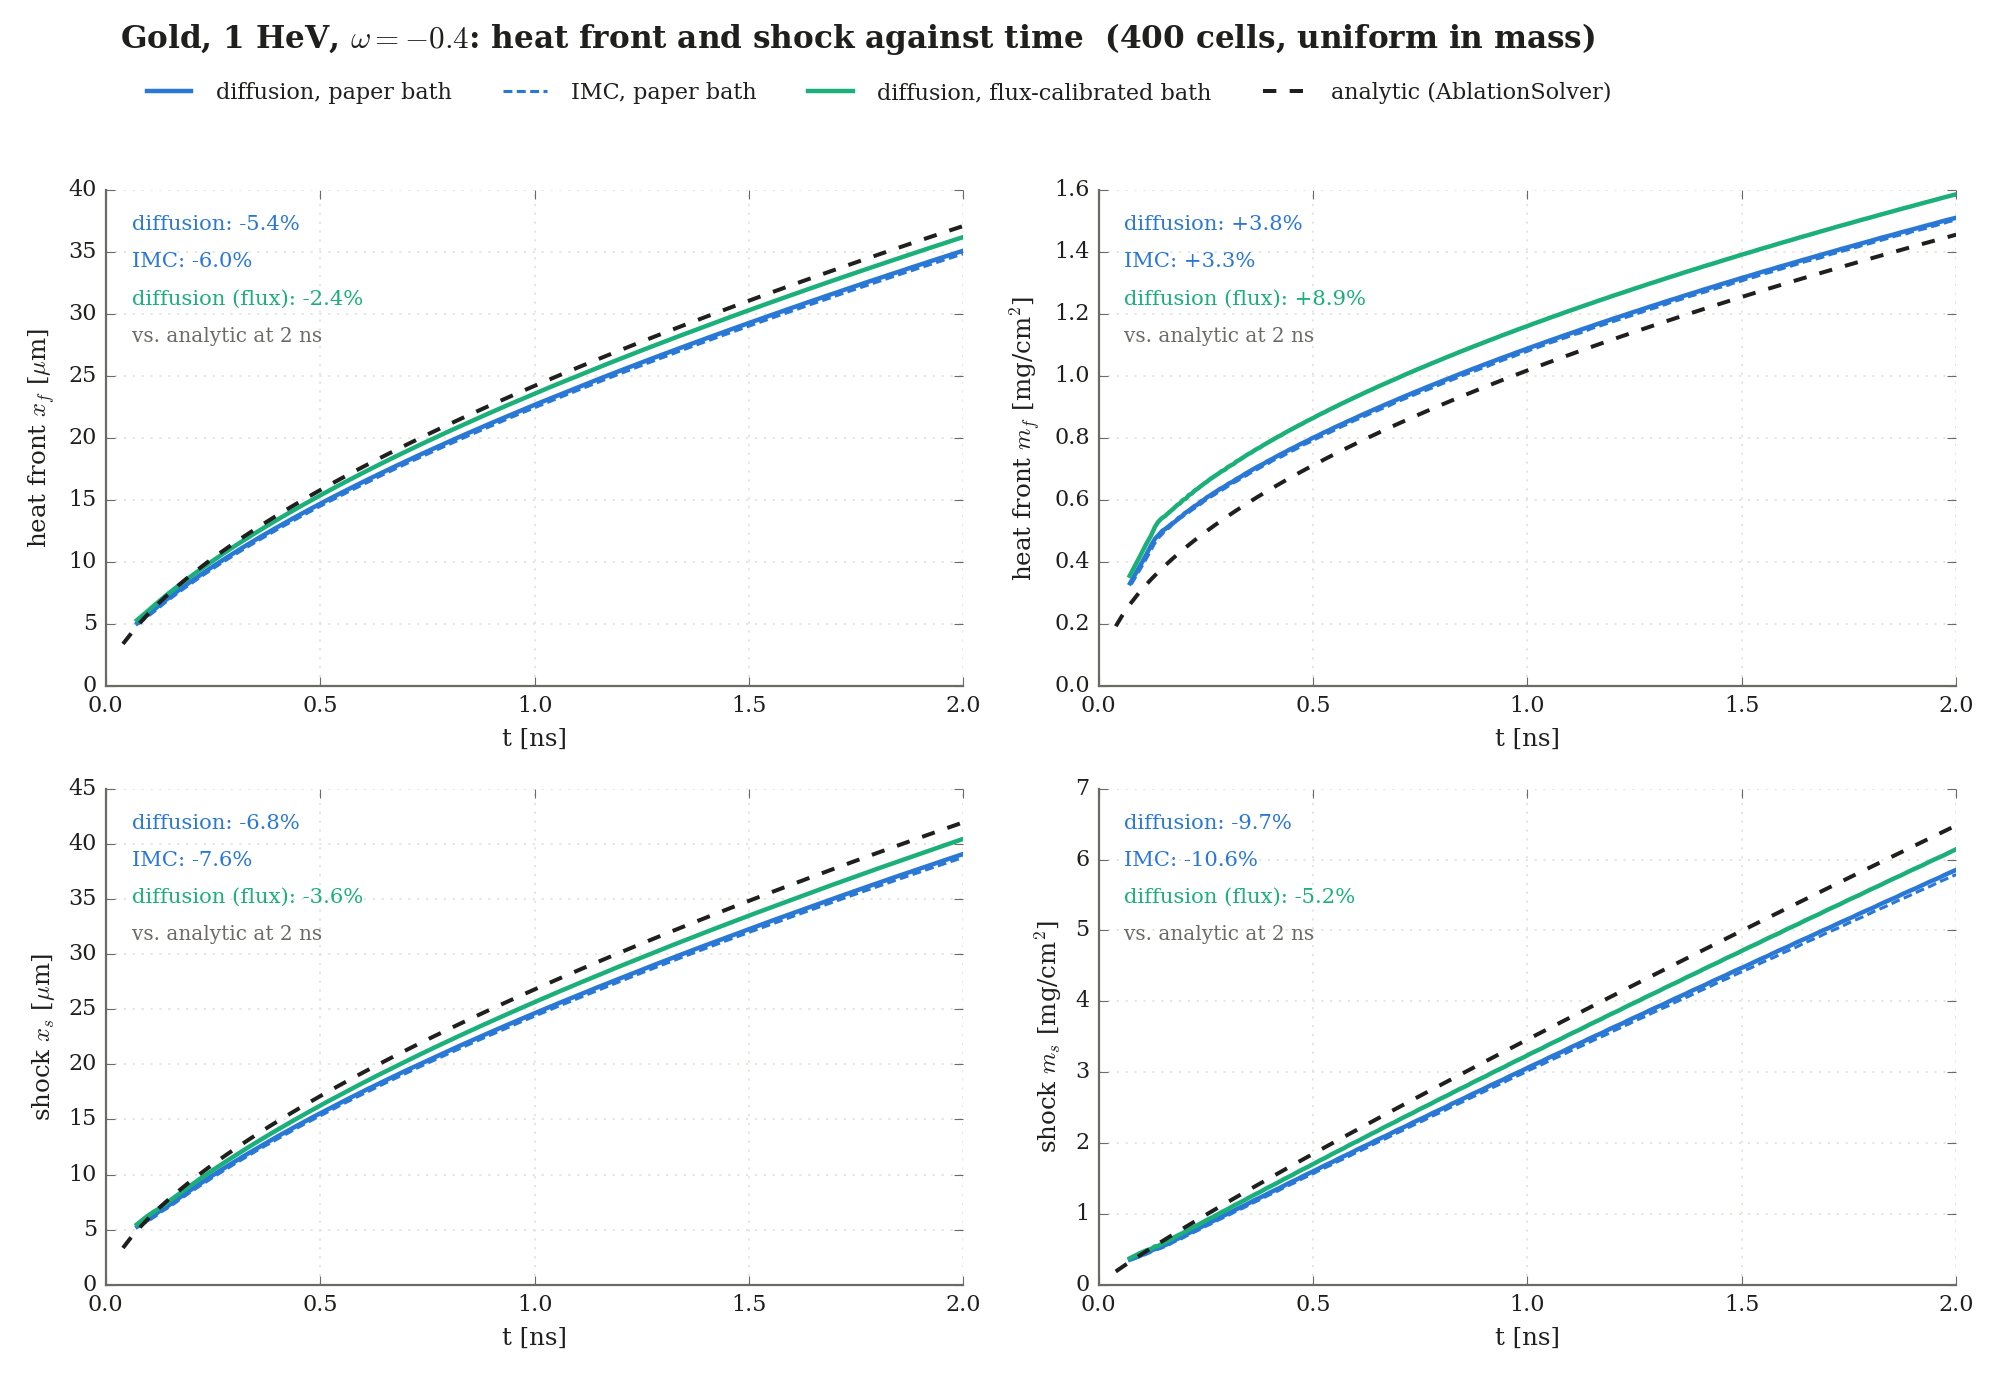
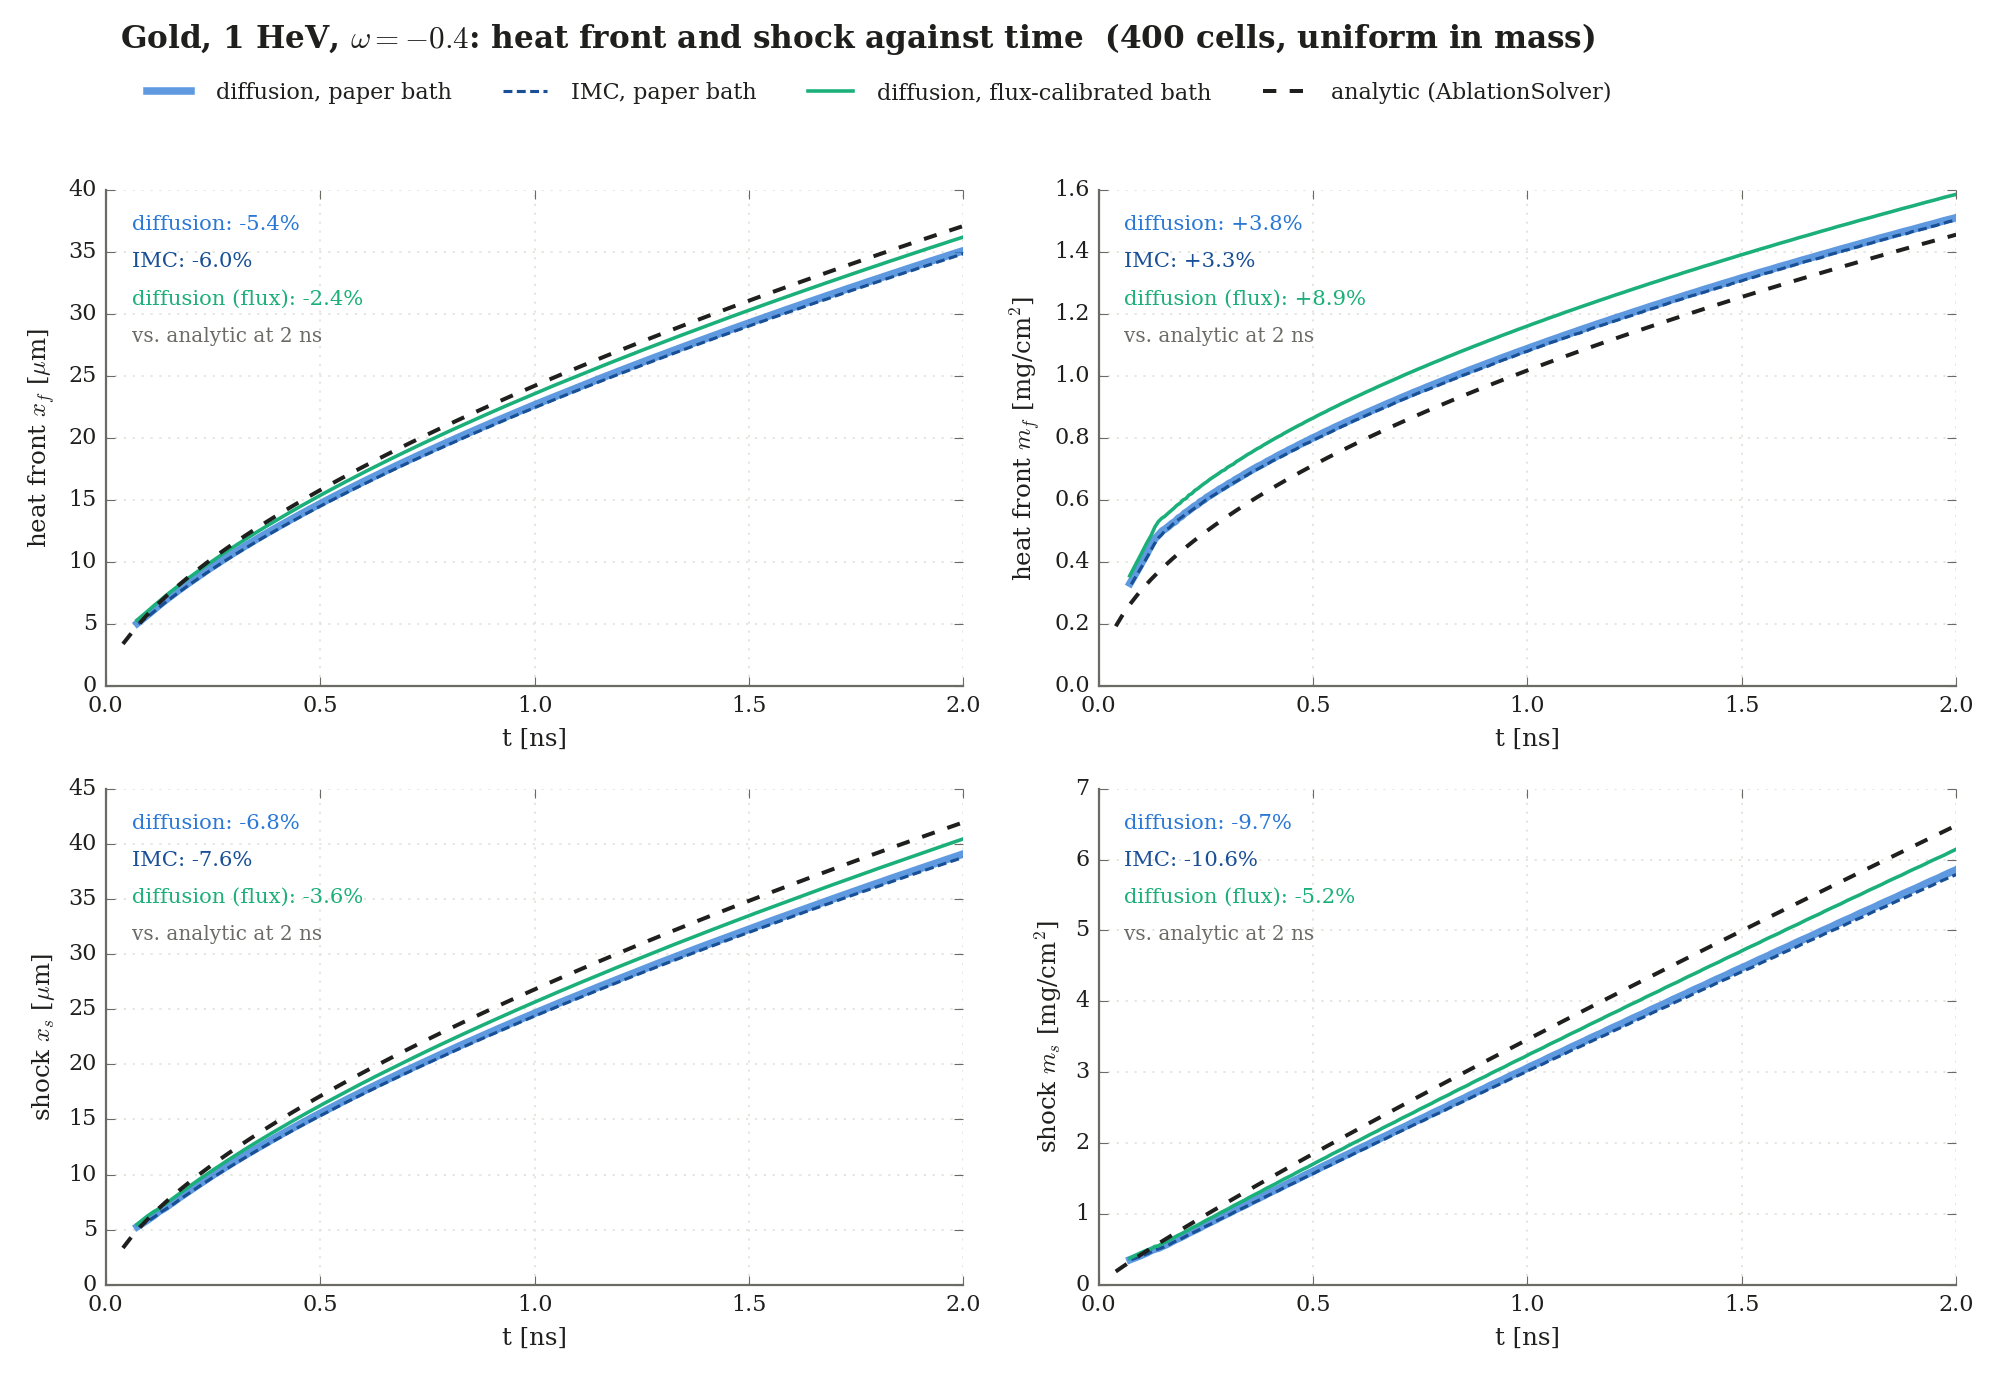
bath_calibration.md: how the calibration iterates; omega sweep: coinciding curves visible
Sec. 1.1: how a new bath reaches the next run (through the table file, re-read by path and
mtime), the measured and target quantities, the stopping rule, the secant update and its
clips, what the 3-point smoothing in log t does and costs, what the omega sweep reached,
and the caveat of overwriting the tracked table.

omega_sweep figures: the paper-bath curve wide underneath and the flux-calibrated one narrow
on top, so both show where the baths agree (omega >= 0).

diff --git a/src/rad_hydro_sim/verification/omega_sweep.py b/src/rad_hydro_sim/verification/omega_sweep.py
@@ -134,9 +134,11 @@ def sim_series(omega: float):
 
 
 # reference palette (dataviz skill): one hue per bath in fixed order, ink for the analytic curve
-STYLE = {"diffusion, paper bath": dict(color="#2a78d6", lw=2.0),
-         "IMC, paper bath": dict(color="#2a78d6", lw=1.4, ls=(0, (4, 2))),
-         "diffusion, flux-calibrated bath": dict(color="#1baf7a", lw=2.0)}
+# where the baths agree (omega >= 0) the curves coincide: the paper bath is drawn wide underneath,
+# the flux-calibrated bath narrow on top, so both stay visible
+STYLE = {"diffusion, paper bath": dict(color="#2a78d6", lw=3.4, alpha=0.75),
+         "IMC, paper bath": dict(color="#184f95", lw=1.4, ls=(0, (4, 2))),
+         "diffusion, flux-calibrated bath": dict(color="#1baf7a", lw=1.6)}
 INK, MUTED, GRID = "#1f1f1d", "#6b6a64", "#e4e3dd"
 PANELS = (("x_f", r"heat front $x_f$ [$\mu$m]", 1e4), ("m_f", r"heat front $m_f$ [mg/cm$^2$]", 1e3),
           ("x_s", r"shock $x_s$ [$\mu$m]", 1e4), ("m_s", r"shock $m_s$ [mg/cm$^2$]", 1e3))

diff --git a/md/phase_c/bath_calibration.md b/md/phase_c/bath_calibration.md
@@ -20,6 +20,29 @@ Why they differ (from `why_the_solver_differs.md` §2): in copper and aluminum t
 
 The calibration tables live in `src/rad_hydro_sim/data/bath_correction/` (`<preset>.txt` for temperature, `<preset>_flux.txt` for flux). IMC runs with the same table as diffusion, so both solvers keep the same drive.
 
+### 1.1 How the calibration iterates
+
+`calibrate_bath(label, target)` in `verification/imc_vs_diffusion.py`. The table format and the fixed caching bug are also in `phase_c_changes.md` §6.1.
+
+**How a new bath reaches the next run.** The case object never changes inside the loop. It carries only the *path* of the table: `case = replace(case, bath_correction=…/<key>.txt)`, and the run's config has `bath_drive="calibrated"` or `"calibrated_flux"`. The update goes through the file:
+1. At the top of each iteration the current correction is written to the table, `np.savetxt(path, (t [ns], c))`, with `path = bath_correction_path(case, drive)` (`<key>_flux.txt` for the flux target).
+2. `simulate_rad_hydro(case, cfg)` reads it through `bath_correction_for` → `bath_correction(path)` (`simulation/iterator.py`). It drives the boundary with T_bath(t) = c(t) · T_bath,law(t), with c interpolated linearly in log t and held constant outside the table. Before the grid's first time, 0.2 ns, the bath therefore uses c(0.2 ns).
+3. At the bottom of the iteration c is updated, and the next iteration's `np.savetxt` overwrites the file before the next run.
+
+The reader is cached (`lru_cache`) by path **and modification time**, so each rewrite is read again. An earlier version cached by path alone and silently reused the first table; that is the fixed bug, covered by `test_bath_table_is_reread_after_a_rewrite`.
+
+**One iteration**, on the grid t_g = 60 points log-spaced from 0.2 ns to t_end, with every quantity in units of T⁴:
+- **Measured Q.** For the temperature target, the matter temperature of the first cell, T(cell 0)⁴, interpolated onto t_g in log t. For the flux target, the net energy flux into the slab divided by 2σ_SB. It is taken from the cumulative energy that entered through the left boundary, as a finite difference over a ±5% window in t: (E_in(1.05 t) − E_in(t/1.05)) / (window length).
+- **Target Q_target.** T_s(t)⁴ = (T₀ t_ns^τ)⁴ for temperature. For flux, s(0, t)/(2σ_SB) = T_b⁴ B t^(4τ+p), the derivative of the solver's closed-form energy E(t).
+- **Error** = max over t_g of |(Q / Q_target)^(1/4) − 1|. The loop stops when this is below tol = 2×10⁻³, or after iteration 6 (at most 7 runs). It stops *before* updating, so the table left on disk is the c of the last run, and later `--bath calibrated_flux` runs read exactly that table.
+- **Update**, pointwise on t_g: T_bath⁴ ← T_bath⁴ + g (Q_target − Q). The gain is g = 1 on the first iteration. Afterwards it is a secant estimate from the last two runs, g = 1 / clip(ΔQ / ΔT_bath⁴, 0.3, 3); points where the bath hardly changed (relative change < 10⁻⁶) keep g = 1.
+- **Clip.** c_new = clip(T_bath,new⁴ / T_bath,law⁴, 0.7⁴, 1.5⁴)^(1/4), so the factor on T_bath stays within [0.7, 1.5].
+- **Smoothing.** `c = np.convolve(np.pad(c_new, 1, mode="edge"), np.ones(3) / 3, mode="valid")` is a 3-point moving average of c_new over t_g. Since t_g is log-spaced, each point is averaged with its neighbours in log t ("light smoothing in log t" in the code). The edge padding repeats the first and last values once, so the result again has 60 points, with the endpoints weighted twice: c[0] = (2 c_new[0] + c_new[1]) / 3. It is there because the measured flux, a finite difference of the cumulative energy, is noisy from point to point, and without smoothing that noise would go straight into the next run's bath and could make the iteration oscillate. Its cost is that it is applied again every iteration and slightly flattens real structure in c(t), mostly near the ends of the grid. The converged table is a smoothed solution, not an exact pointwise match. That is a likely reason, not a checked one, why some cases stop above the tolerance.
+
+**What it reached.** In the gold ω sweep (`omega_sweep/`), with the flux target: ω = −0.8 stopped at 1.0% after 7 runs, −0.6 at 0.65%, −0.4 at 0.31%, −0.2 converged (0.16%) at the 7th run, ω = 0 converged after 4 runs and +0.2 after 3. The error falls every iteration (ω = −0.8: 6.2% → 1.0%), which also confirms that each rewritten table is picked up.
+
+**Caveat.** Each iteration overwrites the tracked table in `src/rad_hydro_sim/data/bath_correction/`. A calibrated run of the same case started while its calibration is still going would read a half-finished table, so run them in sequence.
+
 ## 2. Results at 2 ns
 
 Profile L1 is the mass-weighted |diffusion − analytic| over the domain, relative to the analytic profile, averaged over ρ, p, u and T (`bath_calibration.profile_score`); the fronts are diffusion vs. the solver (+ = diffusion ahead / higher). Closest bath per case in bold.
